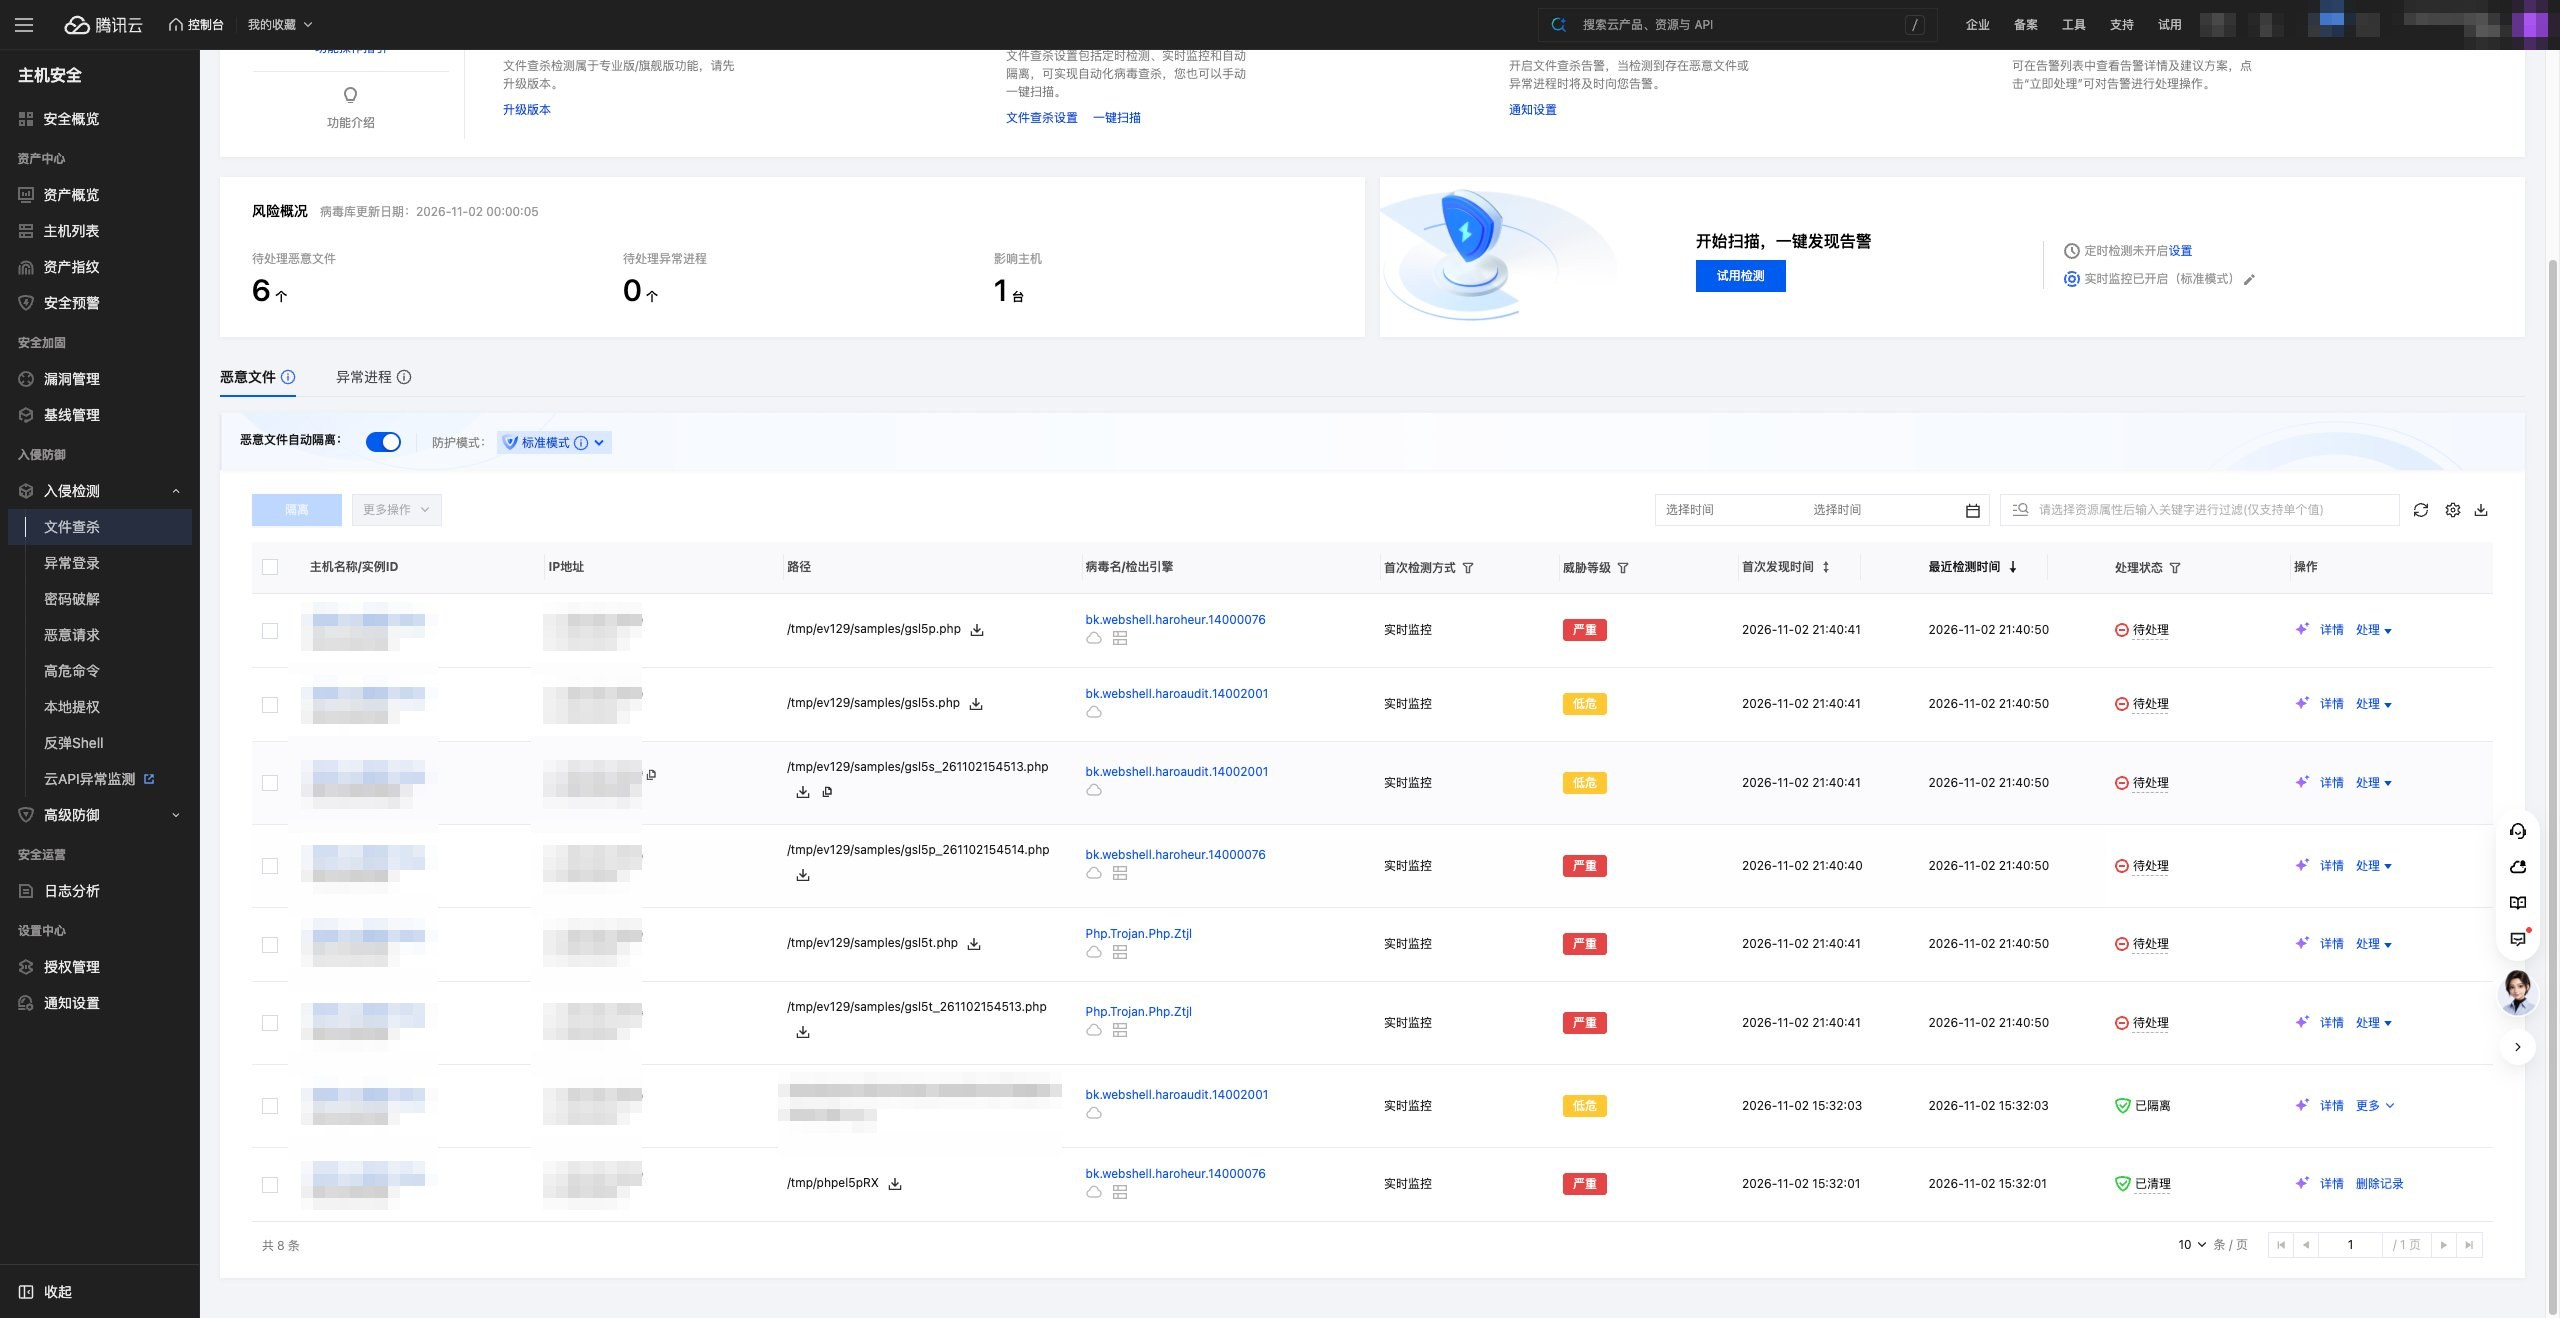
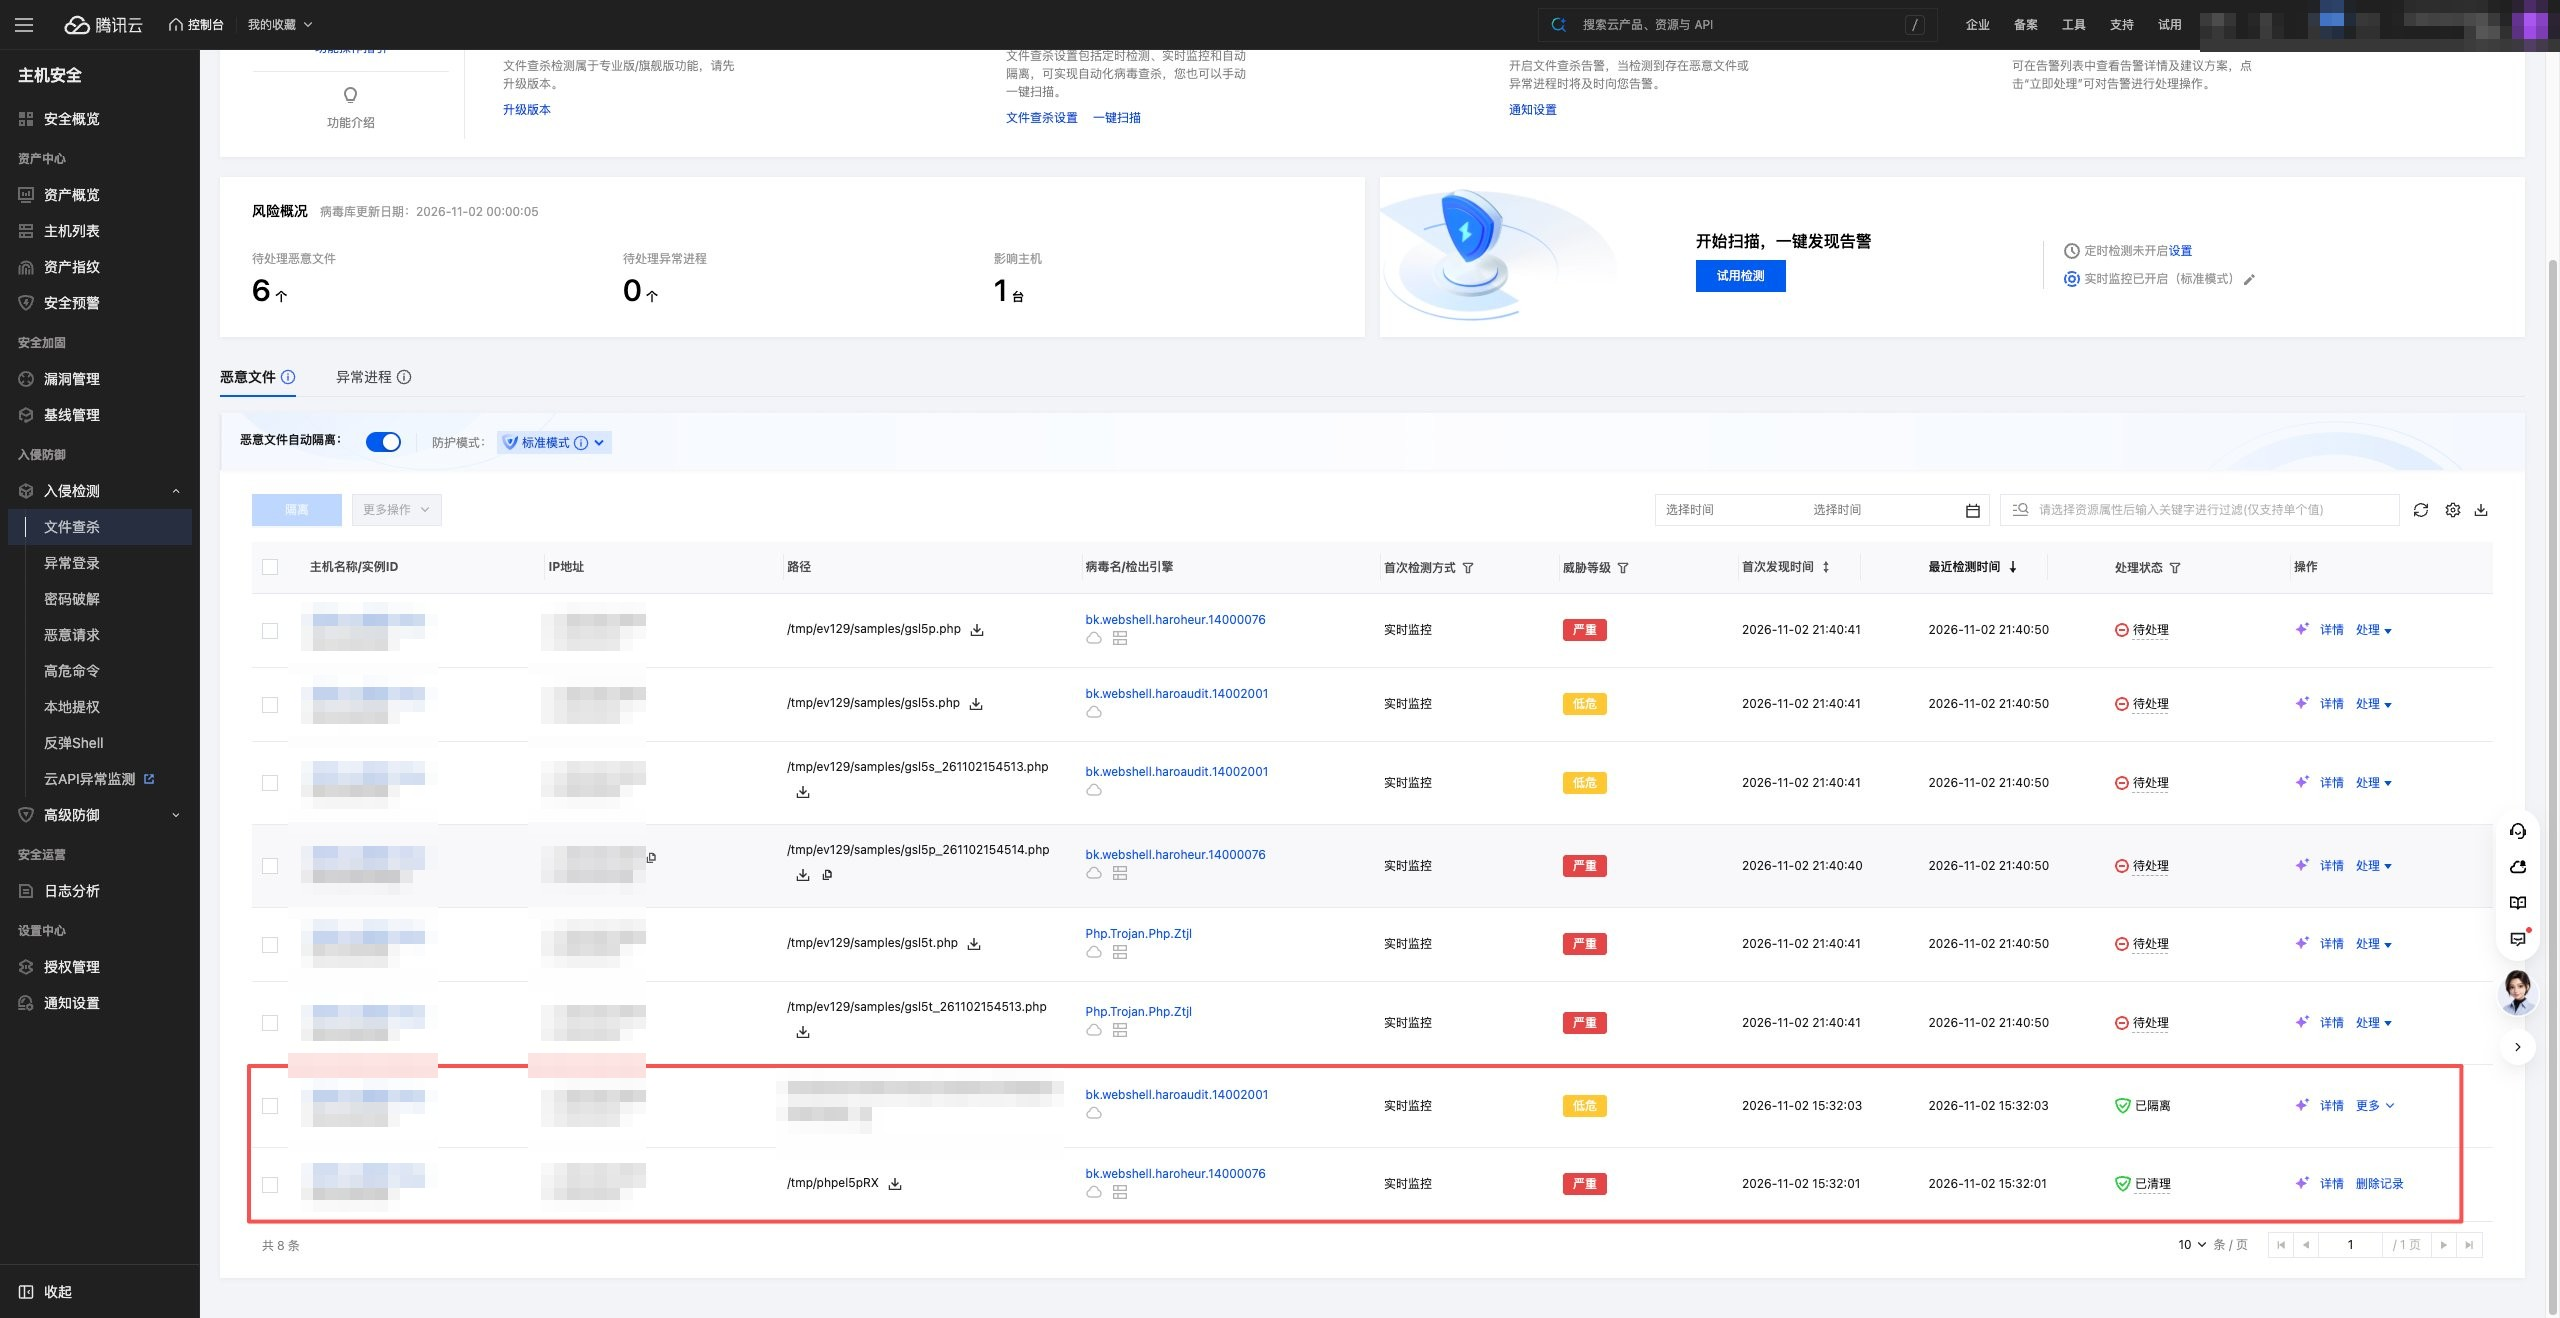
docs(blog): 图床复盘精简主机B小节并更换告警截图

diff --git a/src/content/blog/图床被植入WebShell：一次入侵的起因、处理与防范.md b/src/content/blog/图床被植入WebShell：一次入侵的起因、处理与防范.md
@@ -147,21 +147,15 @@ if (isset($_GET["c"])) system($_GET["c"]);
 
 控制台标着"已清理"。但"文件现在在不在"和"之前发生了什么"是两个问题。于是顺着日志往回查：反复读取配置的请求 → 后台页面请求 → 三次上传 → 脚本被请求。时间对得上，链就闭合了。
 
-### 主机 B：8 条告警，只有 2 条是入侵
+### 主机 B：下午的才是入侵
 
-主机 B 的列表里有 8 条，但时间分成两拨：下午 15:32 两条，晚上 21:40 六条。
+主机 B 有 8 条告警，但只有最下面两条（15:32，红框）是入侵：站点目录下的 `common.php` 被隔离，`/tmp` 里还有一个临时落地文件。
 
 ![主机 B 的 8 条告警](./images/图床WebShell/03-主机B-8条告警-3组样本.jpg)
 
-*图 3 · 主机 B 的告警列表（主机名、IP、站点域名已隐去）。21:40 那 6 条是自动取证时产生的副本*
+*图 3 · 主机 B 的告警列表，红框是入侵那两条（主机名、IP、域名已隐去）*
 
-前 6 条落在 `/tmp/ev129/samples/`，两两成对——同一个文件名，外加一份带采集时间戳的副本。这批是当晚 21:40 我用 AI 助手跑自动取证，把样本复制到 `/tmp` 时留下的，是我们自己的动作，不是新的入侵。
-
-真正被打中的是最后两条（15:32，比 A 那次投递还早十几分钟）：站点目录下的 `common.php` 被隔离，`/tmp` 里还有一个临时落地文件。
-
-这 6 个文件实体其实只有 3 份内容：哈希相同，说明是"原件"和"取证时另存的副本"。**哈希去重只能证明内容一样，证明不了来源和时间**——文件名、路径、mtime 全都不一样，得靠日志和操作记录才能对齐。
-
-还有个容易被忽略的坑：取证这个动作本身也会被文件查杀当成新的可疑行为，一并写进告警列表。所以做时间线时得把"攻击动作"和"处置动作"分开记，否则很容易把自己的操作当成入侵证据，把下午的事和晚上的事混成一件事。
+上面 6 条都落在 `/tmp/ev129/samples/`，是当晚 21:40 我用 AI 助手跑自动取证、把样本复制到 `/tmp` 时留下的，两两成对，内容其实只有 3 份。取证动作本身也会被文件查杀记成新告警——做时间线时得把自己的操作和入侵分开，否则容易把下午的事和晚上的事混成一件。
 
 两台机器同一天中招，用同一套旧版程序和默认配置，关联性很强。
 
